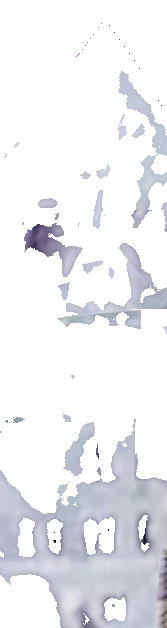
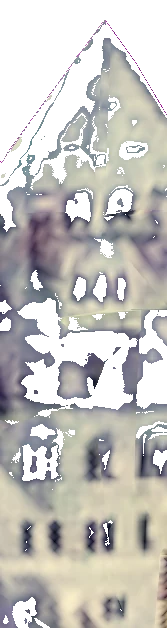
castle: ảnh dán tường cân bằng trắng + lọc cây; đá vôi xám / cỏ sáng; bảng so ảnh thu gọn, không đè nút
- dan-mat.py: cân bằng trắng từng mặt ảnh 3D Google (ám xanh cả mặt do ánh trời) rồi mới lọc trời; lọc cây / cỏ trong ảnh 3D (lưới Google gồm cả cây trước tường); bỏ mặt còn < 30 % điểm ảnh
- ns.js: vách đá vôi xám sáng + cỏ sáng, chia mặt (thay bazan đen + cỏ đậm)
- Bảng So với ảnh thật: thu gọn mặc định (bấm tiêu đề mở), tự mở khi đang so; màn hẹp đặt trên hàng nút đáy (trước đè nút Đi bộ)
- Thử: điện thoại (cần gạt, nút, so ảnh Tắt), leo vào cửa sổ, cầu thang tầng 3, nhảy (đầu lệch ≤ 2°) đạt

diff --git a/apps/castle/public/ns.js b/apps/castle/public/ns.js
@@ -449,8 +449,8 @@ if (NEN_LUOI) {
     for (const k of [0, 2, 1, 0, 3, 2]) { p.push(...q[k]); g.p.push(...q[k]); g.uv.push(ngang ? (q[k][0] + q[k][2]) / 6 : q[k][0] / 4, ngang ? q[k][1] / 6 : q[k][2] / 4); }
   }
   if (p.length) {
-    const da = T.bazan(T.rngTu(71)), co = T.co(T.rngTu(72)); for (const t of [da.map, da.bump, co.map, co.bump]) if (t) t.wrapS = t.wrapT = THREE.RepeatWrapping;
-    const vlNhom = { da: new THREE.MeshStandardMaterial({ map: da.map, bumpMap: da.bump, bumpScale: 2, roughness: 0.95, color: '#c9c2b6' }), co: new THREE.MeshStandardMaterial({ map: co.map || null, roughness: 1, color: '#7f8f62' }) };
+    // đá vôi xám sáng chia mặt (như vách Pöllat ngoài đời) — vân bazan đen + cỏ xanh đậm trước đó nhìn như đất cháy (anh 16/11/2026)
+    const vlNhom = { da: new THREE.MeshStandardMaterial({ color: '#b3ada2', roughness: 0.95, flatShading: true }), co: new THREE.MeshStandardMaterial({ color: '#7d9256', roughness: 1, flatShading: true }) };
     for (const [k, gg] of Object.entries(nhom)) { if (!gg.p.length) continue;
       const g = new THREE.BufferGeometry(); g.setAttribute('position', new THREE.Float32BufferAttribute(gg.p, 3)); g.setAttribute('uv', new THREE.Float32BufferAttribute(gg.uv, 2)); g.computeVertexNormals();
       const m = new THREE.Mesh(g, vlNhom[k]); m.receiveShadow = true; scene.add(m); LOP_OSM.push(m); }
@@ -674,6 +674,7 @@ function datCamSo() {
   $('so-tt').textContent = `cao ${(cam.y + GOC_Y).toFixed(0)} m (so mặt biển) · quay ${(cam.yaw * 180 / Math.PI).toFixed(1)}° · ngẩng ${(cam.pitch * 180 / Math.PI).toFixed(1)}° · ống kính ${cam.fov.toFixed(1)}°`;
 }
 function moSo(i) {
+  if ($('so-than')) $('so-than').style.display = 'block'; // đang so ảnh: bảng mở (có nút Tắt, thanh độ mờ)
   di?.ra(); dangSo = ANH[i]; if (!dangSo) return; for (const r of RUNG) r.visible = false;
   const [x, z] = raMet(dangSo.lat, dangSo.lng);
   let yDat = -1e9; for (let dx = -15; dx <= 15; dx += 5) for (let dz = -15; dz <= 15; dz += 5) yDat = Math.max(yDat, caoDat(x + dx, z + dz) - GOC_Y); // đứng trên cầu / mép vực: lấy mặt cao nhất quanh chỗ chụp
@@ -695,6 +696,10 @@ if (ANH.length) {
   $('so').style.display = 'block';
   $('so-ds').innerHTML = '<button id="so-tat">✕ Tắt</button>' + ANH.map((a, i) => (a.khongDung ? '' : `<button data-i="${i}" title="${a.tieuDe}">📷 ${a.nhan || i + 1}</button>`)).join(''); // Tắt đứng ĐẦU (bảng cuộn trên điện thoại: cuối danh sách bị khuất); bỏ ảnh đã soát là không dùng được // nút ghi tên góc chụp (trước chỉ ghi số, không biết nút nào là góc nào)
   $('so-ds').addEventListener('click', (e) => { const b = e.target.closest('button'); if (!b) return; b.id === 'so-tat' ? tatSo() : moSo(+b.dataset.i); });
+  // bảng thu gọn mặc định (nhiều ảnh → bảng to che cảnh), bấm tiêu đề để mở / đóng; đang so ảnh thì luôn mở
+  const moBang = (b) => { $('so-than').style.display = b ? 'block' : 'none'; $('so-mo-dong').textContent = `📷 So với ảnh thật ${b ? '▾' : '▸'}`; };
+  $('so-mo-dong').addEventListener('click', () => moBang($('so-than').style.display === 'none'));
+  $('so-ds').addEventListener('click', () => moBang(true));
   $('so-mo').addEventListener('input', (e) => { img.style.opacity = e.target.value / 100; });
   addEventListener('keydown', (e) => {
     if (!dangSo) return;

diff --git a/apps/castle/public/neuschwanstein.html b/apps/castle/public/neuschwanstein.html
@@ -24,6 +24,7 @@
   #so button { margin: 0 4px 4px 0; padding: 3px 9px; border-radius: 6px; border: 1px solid var(--vien); background: rgba(255,255,255,.08); color: var(--chu); cursor: pointer; font: inherit; }
   #so button.chon { background: #ffd9a8; color: #1a1208; }
   #so .mo { color: var(--mo); } #so a { color: var(--mo); }
+  @media (max-width: 760px) { #so { bottom: 64px; } } /* màn hẹp: bảng so ảnh ở trên hàng nút đáy (#nut), không đè nút Đi bộ */
   #so-khung { display: none; position: fixed; pointer-events: none; z-index: 2; }
   #so-anh { width: 100%; height: 100%; opacity: .5; display: block; }
   #nut { bottom: 10px; left: 50%; transform: translateX(-50%); padding: 6px; display: flex; gap: 6px; z-index: 3; }
@@ -73,12 +74,15 @@
 <div id="bd" title="Bản đồ — bấm để phóng to, rồi bấm vào đâu là tới đó"><canvas></canvas></div>
 <div id="so-khung"><img id="so-anh" alt="Ảnh thật để đối chiếu"></div>
 <div id="so" class="o">
-  <b>So với ảnh thật</b> <span class="mo">(camera đặt đúng chỗ người chụp đứng)</span>
+  <b id="so-mo-dong" style="cursor:pointer">📷 So với ảnh thật ▸</b>
+  <div id="so-than" style="display:none">
+  <div class="mo">camera đặt đúng chỗ người chụp đứng</div>
   <div id="so-ds" style="margin-top:6px"></div>
   <label class="mo">Độ mờ ảnh <input id="so-mo" type="range" min="0" max="100" value="50" style="vertical-align:middle;width:140px"></label>
   <div class="mo">← → quay · ↑ ↓ ngẩng · [ ] ống kính · PgUp/PgDn cao thấp · Shift nhanh</div>
   <div class="mo" id="so-tt"></div>
   <div class="mo" id="so-nguon"></div>
+  </div>
 </div>
 <div id="nguon" class="o"><span id="nguon-3d"></span>© <a href="https://www.openstreetmap.org/copyright" target="_blank" rel="noopener">OpenStreetMap contributors</a> · EU-DEM (Copernicus) · người: Quaternius (CC0) · đồ đạc: KayKit (Kay Lousberg, CC0) · tranh tường: photochrom ~1900, Josef Albert / Library of Congress · tranh mặt Palas: <a href="https://commons.wikimedia.org/wiki/File:Oberer_Schlosshof_Neuschwanstein.jpg" target="_blank" rel="noopener">Naturliebhaberin, CC BY-SA 4.0</a></div>
 <script>

diff --git a/apps/castle/scripts/dan-mat.py b/apps/castle/scripts/dan-mat.py
@@ -26,7 +26,20 @@ for m in json.loads((thu / 'mat-g.json').read_text()):
         for x in range(W):
             r, g, b, a = px[x, y]
             if r > 200 and b > 200 and g < 70: px[x, y] = (0, 0, 0, 0)  # trời (nền hồng tím của bước chụp)
-            elif b > r + 25 and b > g + 8: px[x, y] = (0, 0, 0, 0)  # ảnh 3D Google: mảng xanh tím (trời / kính phản chiếu dính vào mặt tường) → bỏ, để ảnh chụp chiếu hoặc tường đá lộ ra (anh 16/11/2026: 'nham nhở')
+    # CÂN BẰNG TRẮNG từng mặt (ảnh 3D Google ám xanh cả mặt — ánh trời lúc chụp): tường lâu đài trắng xám → kéo trung bình 3 kênh về bằng nhau
+    op = [px[x, y] for y in range(H) for x in range(W) if px[x, y][3]]
+    if op:
+        mr, mg, mb = (sum(p[k] for p in op) / len(op) for k in range(3)); xam = (mr + mg + mb) / 3; kr, kg, kb = xam / max(mr, 1), xam / max(mg, 1), xam / max(mb, 1)
+        for y in range(H):
+            for x in range(W):
+                r, g, b, a = px[x, y]
+                if a: px[x, y] = (min(255, int(r * kr)), min(255, int(g * kg)), min(255, int(b * kb)), a)
+    for y in range(H):
+        for x in range(W):
+            r, g, b, a = px[x, y]
+            if not a: continue
+            elif b > r + 25 and b > g + 8: px[x, y] = (0, 0, 0, 0)
+            elif g > r + 6 and g > b - 4: px[x, y] = (0, 0, 0, 0)  # cây / cỏ trong ảnh 3D Google (lưới Google gồm cả cây đứng trước tường)  # ảnh 3D Google: mảng xanh tím (trời / kính phản chiếu dính vào mặt tường) → bỏ, để ảnh chụp chiếu hoặc tường đá lộ ra (anh 16/11/2026: 'nham nhở')
     c = chup.get(f"{m['khoi']}#{m['canh']}")
     if c:
         pc = Image.open(c['tep']).convert('RGBA'); qx = pc.load(); P = c['px']
@@ -43,6 +56,8 @@ for m in json.loads((thu / 'mat-g.json').read_text()):
         cx = [abs(q[x, y] - q[x + 1, y]) for y in range(0, H, 2) for x in range(W - 1) if A[x, y] and A[x + 1, y]]; cy = [abs(q[x, y] - q[x, y + 1]) for y in range(H - 1) for x in range(0, W, 2) if A[x, y] and A[x, y + 1]]
         dx = sum(cx) / max(1, len(cx)); dy = sum(cy) / max(1, len(cy))
         if dy > 1.5 * max(dx, 0.1): print(f"bỏ {m['khoi']}#{m['canh']}: ảnh sọc (dọc/ngang {dy / max(dx, 0.1):.1f})"); continue
+    op = [px[x, y] for y in range(H) for x in range(W) if px[x, y][3]]
+    if len(op) < 0.3 * W * H: print(f"bỏ {m['khoi']}#{m['canh']}: còn < 30 % điểm ảnh sau lọc"); continue
     ten = f"{m['khoi'].split('/')[-1]}-{m['canh']}.webp"
     im.save(ra / ten, 'WEBP', quality=88, method=6)
     bang[f"{m['khoi']}#{m['canh']}"] = {'chup': bool(c), 'tep': f'anh/mat/{ten}', 'y0': round(m['y0'], 2), 'yTren': round(m['y1'], 2), 'L': round(m['L'], 2)}
